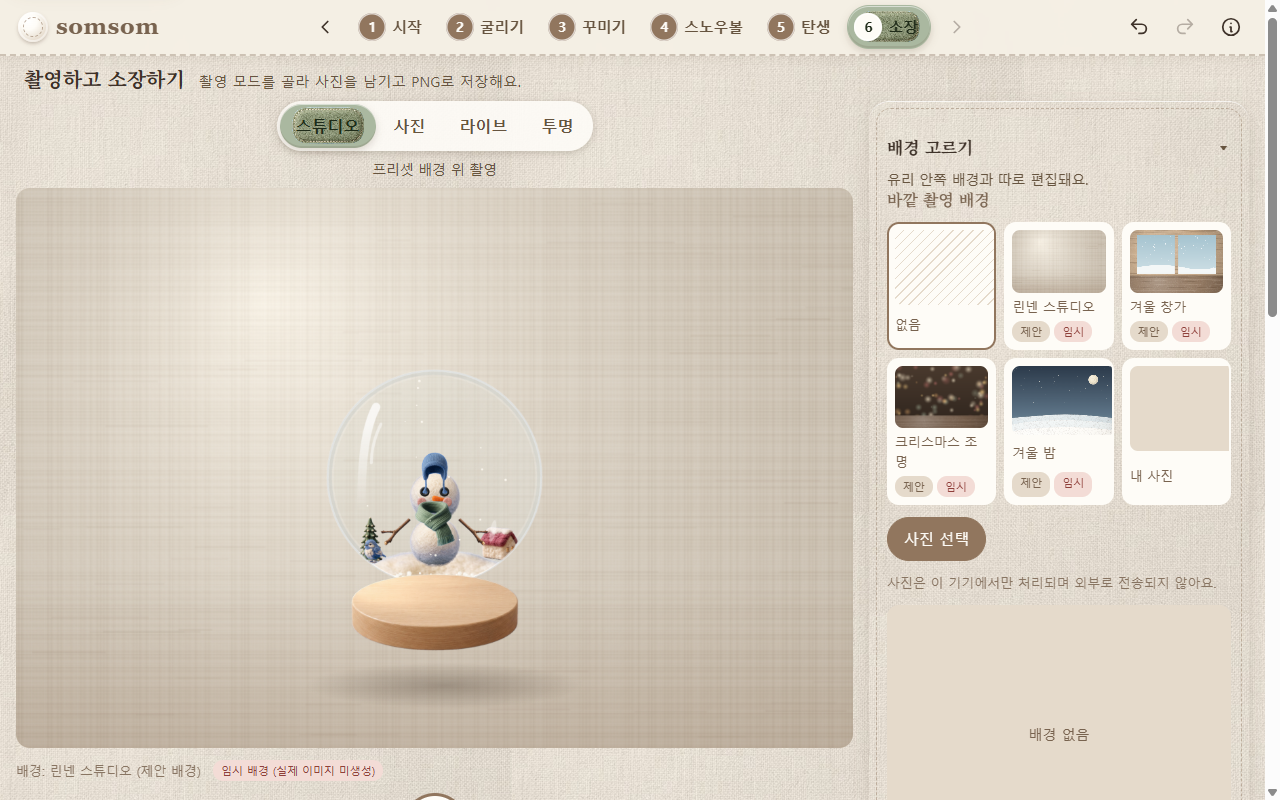
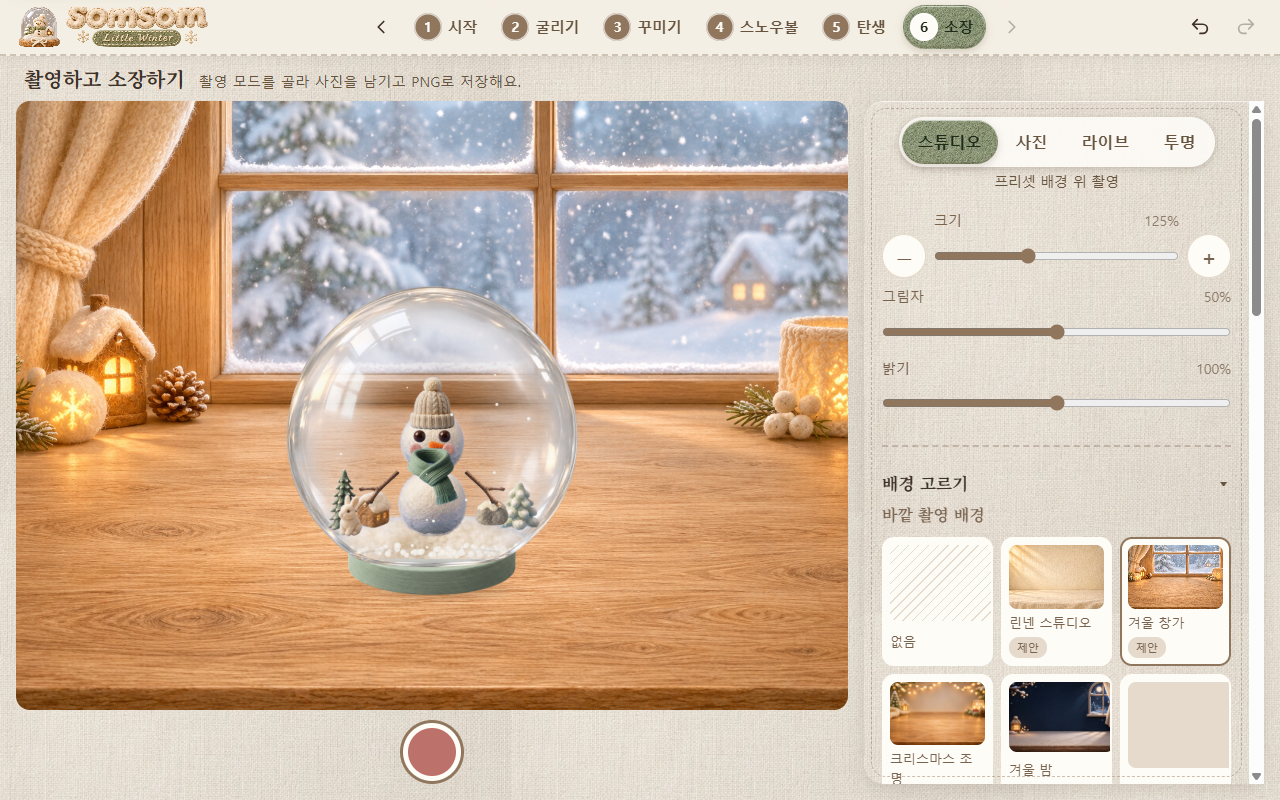
docs: refresh README screenshots with final assets

diff --git a/README.md b/README.md
@@ -8,7 +8,7 @@
 
 ## 화면
 
-실제 실행 화면입니다(데스크톱 1280px, 모바일 390px). 스크린샷은 유리 용기·촬영 배경을 넣기 전에 찍은 것이라 임시 그림이 보입니다.
+실제 실행 화면입니다(데스크톱 1280px, 모바일 390px).
 
 | 시작 | 굴리기 | 꾸미기 |
 |---|---|---|
@@ -22,7 +22,7 @@
 
 ## 바로 사용하기
 
-https://sodam-wd.github.io/somsom/ (게시 전)
+https://sodam-wd.github.io/somsom/
 
 설치는 필요 없습니다. 브라우저로 접속하면 바로 실행됩니다.
 
